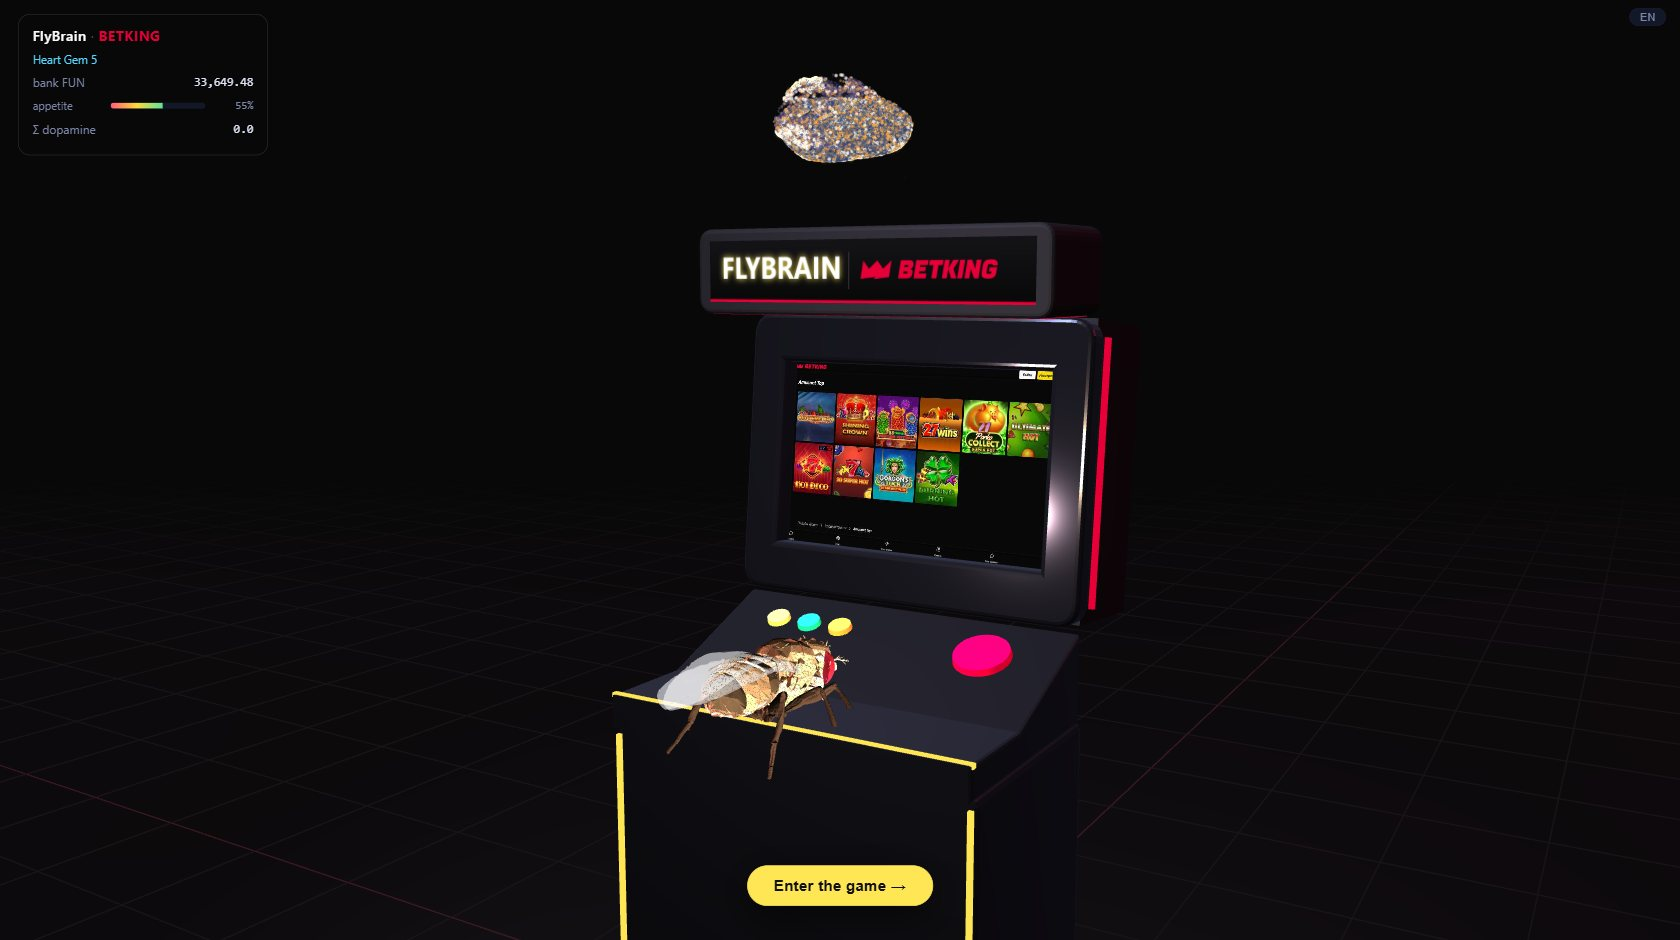
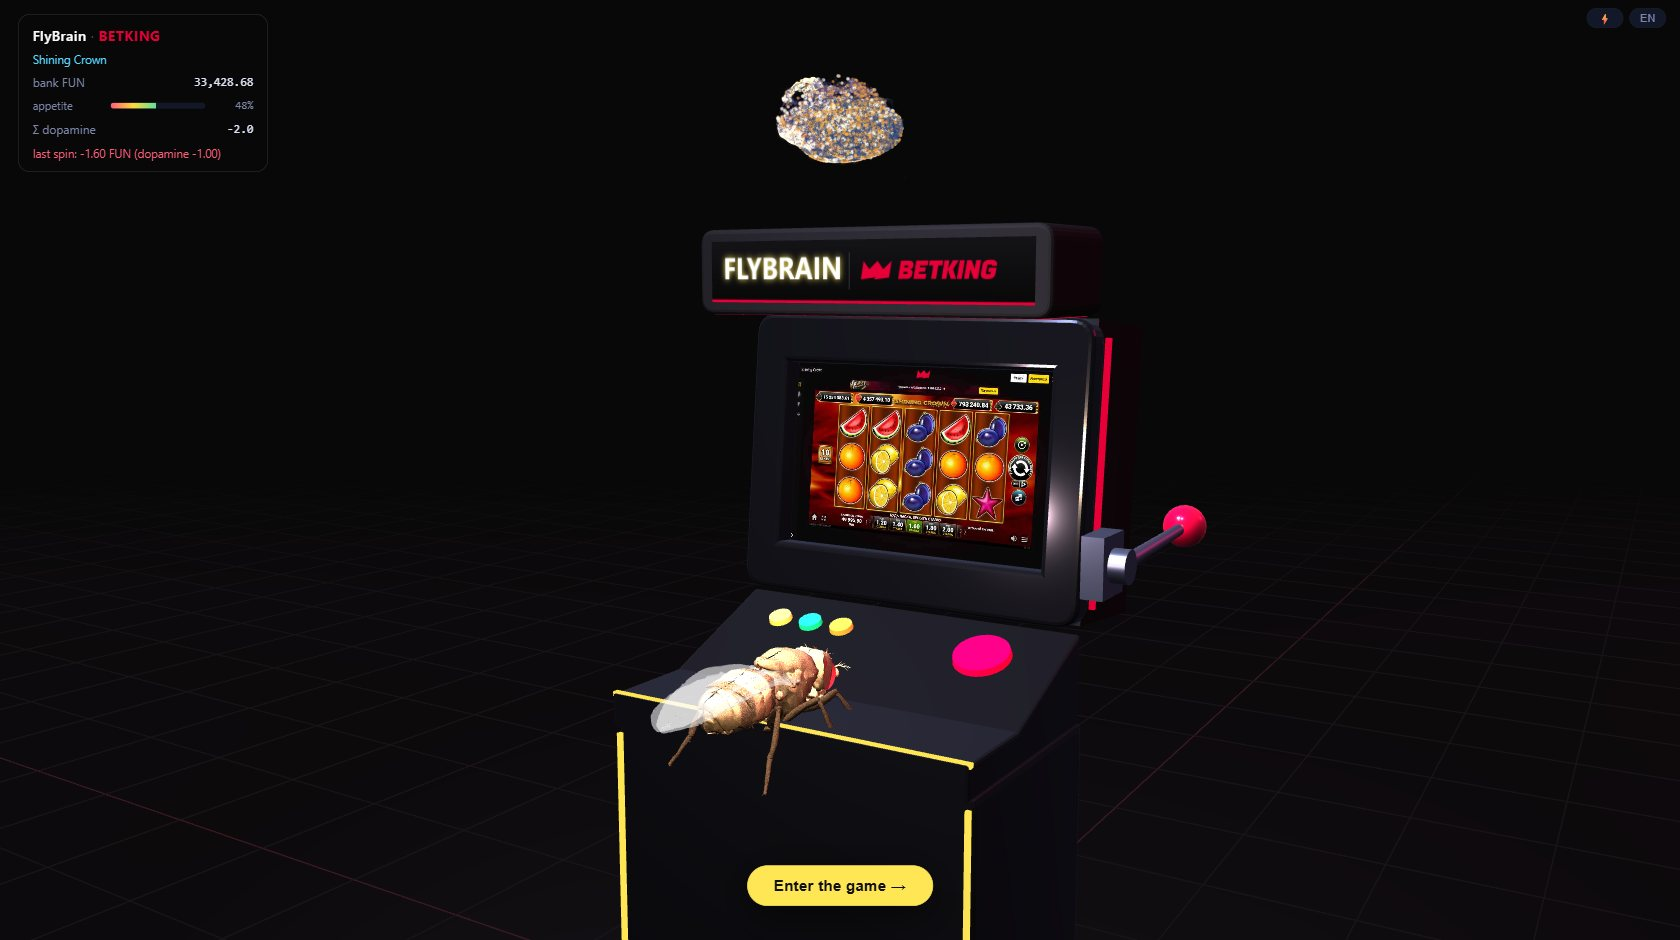
fly skin: shell fur removed (it read as slices with see-through seams) - fuzz is shaded (velvet rim + hair speckle), vertices welded and normals smoothed so the low-poly mesh is one skin, body double-sided so segment gaps never show the background; arcade: the fly perches level with all six legs dow

diff --git a/viz/index.html b/viz/index.html
@@ -637,40 +637,46 @@ const envMap = (() => {
 // its rear half (tergites), deep red compound eyes, dark legs. Matte, slightly velvety - no bee yellow,
 // no wasp gloss. Patterns are procedural (the model has no UVs): stripes by position, fur as shells.
 const MAT = {
-  thorax: new THREE.MeshPhysicalMaterial({ color: 0xa8845c, roughness: 0.82, metalness: 0.0, clearcoat: 0.06, clearcoatRoughness: 0.8, sheen: new THREE.Color(0x2a1d12), envMap, envMapIntensity: 0.25 }),
-  body:   new THREE.MeshPhysicalMaterial({ color: 0xc8a473, roughness: 0.8, metalness: 0.0, clearcoat: 0.08, clearcoatRoughness: 0.7, sheen: new THREE.Color(0x2e2115), envMap, envMapIntensity: 0.25 }),
+  // DoubleSide: the model's body plates have small gaps between segments; without back faces they showed the background through the fly
+  thorax: new THREE.MeshPhysicalMaterial({ color: 0x8f6c46, roughness: 0.82, metalness: 0.0, clearcoat: 0.06, clearcoatRoughness: 0.8, sheen: new THREE.Color(0x2a1d12), envMap, envMapIntensity: 0.25, side: THREE.DoubleSide }),
+  body:   new THREE.MeshPhysicalMaterial({ color: 0xb08c5e, roughness: 0.8, metalness: 0.0, clearcoat: 0.08, clearcoatRoughness: 0.7, sheen: new THREE.Color(0x2e2115), envMap, envMapIntensity: 0.25, side: THREE.DoubleSide }),
   eyes:   new THREE.MeshPhysicalMaterial({ color: 0xa8161f, emissive: 0x2a0406, roughness: 0.35, metalness: 0.0, clearcoat: 0.9, clearcoatRoughness: 0.25, envMap, envMapIntensity: 0.8 }),
   wing:   new THREE.MeshPhysicalMaterial({ color: 0xe6f4ff, transparent: true, opacity: 0.34, roughness: 0.1, metalness: 0.1, side: THREE.DoubleSide, depthWrite: false, envMap, envMapIntensity: 1.3 }),
   wingGhost: new THREE.MeshBasicMaterial({ color: 0xdfeeff, transparent: true, opacity: 0.09, side: THREE.DoubleSide, depthWrite: false }),
-  legs:   new THREE.MeshStandardMaterial({ color: 0x2f2318, roughness: 0.9, metalness: 0.0 }),
+  legs:   new THREE.MeshStandardMaterial({ color: 0x2f2318, roughness: 0.9, metalness: 0.0, side: THREE.DoubleSide }),
 };
 // stripes: dark bands along the body axis behind z0 (the abdomen), thin faint ones on the thorax
-function stripe(mat, z0, freq, dark, spread) {
+function stripe(mat, z0, freq, dark, spread, hairFreq, fuzz = 0xd8bd95) {
+  // plus the fuzz, shaded rather than built: a velvet rim (fuzz catches light at the silhouette) and a
+  // fine per-cell speckle (individual hairs). Shell fur - stacked copies of the mesh - showed as slices
+  // with see-through seams on this low-poly model.
   mat.onBeforeCompile = sh => {
     sh.uniforms.uZ0 = { value: z0 }; sh.uniforms.uFreq = { value: freq }; sh.uniforms.uDark = { value: dark }; sh.uniforms.uSpread = { value: spread };
+    sh.uniforms.uHairFreq = { value: hairFreq }; sh.uniforms.uFuzz = { value: new THREE.Color(fuzz) };
     sh.vertexShader = sh.vertexShader.replace('#include <common>', '#include <common>\nvarying vec3 vObjPos;').replace('#include <begin_vertex>', '#include <begin_vertex>\nvObjPos = position;');
-    sh.fragmentShader = sh.fragmentShader.replace('#include <common>', '#include <common>\nvarying vec3 vObjPos; uniform float uZ0, uFreq, uDark, uSpread;')
-      .replace('#include <color_fragment>', '#include <color_fragment>\n{ float rear = smoothstep(0.0, uSpread, uZ0 - vObjPos.z); float band = smoothstep(0.1, 0.6, sin((vObjPos.z - uZ0) * uFreq)); float side = 1.0 - 0.35 * smoothstep(0.2, 0.9, abs(normalize(vObjPos - vec3(0.0, vObjPos.y, vObjPos.z)).x)); diffuseColor.rgb *= mix(1.0, uDark, rear * band); diffuseColor.rgb *= 0.9 + 0.1 * side; }');
+    sh.fragmentShader = sh.fragmentShader.replace('#include <common>', '#include <common>\nvarying vec3 vObjPos; uniform float uZ0, uFreq, uDark, uSpread, uHairFreq; uniform vec3 uFuzz;')
+      .replace('#include <color_fragment>', '#include <color_fragment>\n{ float rear = smoothstep(0.0, uSpread, uZ0 - vObjPos.z); float band = smoothstep(0.1, 0.6, sin((vObjPos.z - uZ0) * uFreq));'
+        + ' float side = 1.0 - 0.35 * smoothstep(0.2, 0.9, abs(normalize(vObjPos - vec3(0.0, vObjPos.y, vObjPos.z)).x)); diffuseColor.rgb *= mix(1.0, uDark, rear * band); diffuseColor.rgb *= 0.9 + 0.1 * side;'
+        + ' float h = fract(sin(dot(floor(vObjPos * uHairFreq), vec3(127.1, 311.7, 74.7))) * 43758.5453);'
+        + ' float fr = pow(1.0 - max(0.0, dot(normalize(vNormal), normalize(vViewPosition))), 2.5);'
+        + ' diffuseColor.rgb *= 0.9 + 0.2 * h; diffuseColor.rgb = mix(diffuseColor.rgb, uFuzz, fr * (0.16 + 0.22 * h)); }');
   };
   mat.needsUpdate = true;
 }
-// fur: shells of the same geometry pushed out along the normals, each keeping a random subset of cells
-function addFur(mesh, length, shells, color, density) {
-  for (let k = 1; k <= shells; k++) {
-    const f = k / shells;
-    const m = new THREE.ShaderMaterial({ transparent: true, depthWrite: false,
-      uniforms: { uOff: { value: f * length }, uF: { value: f }, uColor: { value: new THREE.Color(color) }, uDensity: { value: density } },
-      vertexShader: 'uniform float uOff; varying vec3 vN; varying vec3 vP; void main() { vN = normalize(normalMatrix * normal); vP = position; gl_Position = projectionMatrix * modelViewMatrix * vec4(position + normal * uOff, 1.0); }',
-      fragmentShader: 'uniform float uF, uDensity; uniform vec3 uColor; varying vec3 vN; varying vec3 vP;\n' +
-        'float hash(vec3 p) { return fract(sin(dot(p, vec3(127.1, 311.7, 74.7))) * 43758.5453); }\n' +
-        'void main() { float h = hash(floor(vP * uDensity)); float keep = step(0.84 + 0.14 * uF, h); if (keep < 0.5) discard; float a = (1.0 - uF * 0.7) * 0.42;\n' +
-        '  float l = 0.5 + 0.5 * max(0.0, dot(normalize(vN), normalize(vec3(-0.4, 0.8, 0.6)))); gl_FragColor = vec4(uColor * l * (0.55 + 0.45 * uF), a); }' });
-    const sm = new THREE.Mesh(mesh.geometry, m); sm.renderOrder = 3 + k; mesh.add(sm); furMeshes.push(sm); if (lite) sm.visible = false;
+// the glb carries flat (per-face) normals: lighting came out as a patchwork of facets with dark seams.
+// Weld the vertices by position and recompute smooth normals - the same low-poly mesh reads as one skin.
+function smoothGeometry(g) {
+  const pos = g.attributes.position, n = pos.count, key = new Map(), index = new Uint32Array(n), out = [];
+  for (let i = 0; i < n; i++) {
+    const k = Math.round(pos.getX(i) * 1e4) + ',' + Math.round(pos.getY(i) * 1e4) + ',' + Math.round(pos.getZ(i) * 1e4);
+    let j = key.get(k); if (j === undefined) { j = out.length / 3; key.set(k, j); out.push(pos.getX(i), pos.getY(i), pos.getZ(i)); } index[i] = j;
   }
+  const idx = g.index ? Array.from(g.index.array, i => index[i]) : Array.from(index);
+  const ng = new THREE.BufferGeometry(); ng.setAttribute('position', new THREE.Float32BufferAttribute(out, 3)); ng.setIndex(idx); ng.computeVertexNormals(); return ng;
 }
 new THREE.GLTFLoader().load('/assets/drosophila.glb', gltf => {
   const model = gltf.scene; let legsMesh = null, bodyMesh = null;
-  model.traverse(o => { if (!o.isMesh) return; const n = o.name.toLowerCase();
+  model.traverse(o => { if (!o.isMesh) return; const n = o.name.toLowerCase(); if (!n.includes('wing')) o.geometry = smoothGeometry(o.geometry);
     o.material = n.includes('wing') ? MAT.wing : n.includes('eye') ? MAT.eyes : n.includes('thorax') ? MAT.thorax : n.includes('leg') ? MAT.legs : MAT.body;
     if (n.includes('wing')) fly.wings.push({ mesh: o, s: n.startsWith('l') ? -1 : 1 }); if (n.includes('leg')) legsMesh = o; if (n === 'body') bodyMesh = o; });
   model.updateMatrixWorld(true);
@@ -678,10 +684,10 @@ new THREE.GLTFLoader().load('/assets/drosophila.glb', gltf => {
   if (thorax) new THREE.Box3().setFromObject(thorax).getCenter(tc);
   const bbAll = new THREE.Box3().setFromObject(model), L = bbAll.max.z - bbAll.min.z;
   // abdomen bands behind the thorax, faint thorax stripes, fur on both
-  stripe(MAT.body, tc.z - L * 0.06, 2 * Math.PI * 4.5 / Math.max(0.01, tc.z - bbAll.min.z), 0.38, L * 0.12);
-  stripe(MAT.thorax, tc.z + L * 0.4, 2 * Math.PI * 3.0 / (L * 0.3), 0.72, L * 0.6);
-  if (thorax) addFur(thorax, L * 0.024, 4, 0xd9bc92, 200 / L);
-  if (bodyMesh) addFur(bodyMesh, L * 0.012, 3, 0xcfae82, 260 / L);
+  stripe(MAT.body, tc.z - L * 0.06, 2 * Math.PI * 4.5 / Math.max(0.01, tc.z - bbAll.min.z), 0.38, L * 0.12, 260 / L);
+  stripe(MAT.thorax, tc.z + L * 0.4, 2 * Math.PI * 3.0 / (L * 0.3), 0.72, L * 0.6, 220 / L);
+  stripe(MAT.legs, tc.z, 1.0, 1.0, 0.0, 400 / L, 0x6a5238);
+
   fly.wings = fly.wings.map(({ mesh, s }) => {
     const bb = new THREE.Box3().setFromObject(mesh);
     const hinge = new THREE.Vector3(s < 0 ? bb.max.x : bb.min.x, bb.max.y, bb.max.z); hinge.x = tc.x + s * 0.12; hinge.y = Math.min(hinge.y, tc.y + 0.25);
@@ -843,6 +849,14 @@ function marqueeTexture() {   // "FLYBRAIN" and the BETKING logo (crown + wordma
   const keyA = new THREE.DirectionalLight(0xfff0dd, 0.7); keyA.position.set(-2, 4, 3); arcade.add(keyA);
   const rim = new THREE.DirectionalLight(BK.red, 0.4); rim.position.set(3, 2, -3); arcade.add(rim);
   const warm = new THREE.PointLight(0xffd6a8, 1.6, 3.5, 2); warm.position.set(0.7, 1.7, 1.3); arcade.add(warm);   // a warm lamp on the fly
+  // the one-armed bandit's arm: bracket on the right side of the head, shaft + red ball; pulled on every decision
+  const lever = new THREE.Group(); lever.position.set(0.53, headY - 0.22, -0.3); cabinet.add(lever);
+  const bracket = new THREE.Mesh(new THREE.BoxGeometry(0.06, 0.16, 0.14), steel); bracket.position.set(0.03, 0, 0); lever.add(bracket);
+  const pivot = new THREE.Group(); pivot.position.set(0.075, 0, 0); lever.add(pivot);
+  const shaft = new THREE.Mesh(new THREE.CylinderGeometry(0.016, 0.02, 0.5, 16), steel); shaft.position.set(0, 0.25, 0); pivot.add(shaft);
+  const knob = new THREE.Mesh(new THREE.SphereGeometry(0.06, 24, 16), new THREE.MeshPhysicalMaterial({ color: BK.red, roughness: 0.25, clearcoat: 1, clearcoatRoughness: 0.1, envMap, envMapIntensity: 0.8 })); knob.position.set(0, 0.52, 0); pivot.add(knob);
+  const hub = new THREE.Mesh(new THREE.CylinderGeometry(0.045, 0.045, 0.06, 20), steel); hub.rotation.z = Math.PI / 2; pivot.add(hub);
+  cabinet.userData.lever = pivot;
   cabinet.userData.perch = { y: pedTop + ledgeH, z: 0.02 + deckDepth / 2 - 0.13, screenY: headY };
 }
 const brainLight = new THREE.PointLight(0x9fb4ff, 0.8, 3, 2); brainLight.position.set(0, 2.6, 0.6);
@@ -1126,8 +1140,8 @@ function animate(now) {
     tmp.set(fs.pos.x + 1, fs.pos.y + 0.05, fs.pos.z + 0.55); qTarget.copy(flyRoot.quaternion); flyRoot.lookAt(tmp); flyRoot.rotateX(-0.15); qA.copy(flyRoot.quaternion); flyRoot.quaternion.copy(qTarget).slerp(qA, Math.min(1, dt * 5));
   } else if (fs.mode === 'perch') {   // arcade: sits on the cabinet's ledge, facing the screen, watching the reels
     grounded = true;
-    const pr = cabinet.userData.perch; fs.pos.set(-0.04, pr.y + 0.105, pr.z + 0.06); flyRoot.position.copy(fs.pos); flyRoot.position.y += Math.sin(t0 * 1.7) * 0.004;
-    tmp.set(fs.pos.x - 0.02, fs.pos.y + 0.28 + Math.sin(t0 * 0.6) * 0.05, fs.pos.z - 0.8); qTarget.copy(flyRoot.quaternion); flyRoot.lookAt(tmp); flyRoot.rotateX(0.55 + Math.sin(t0 * 0.9) * 0.05); flyRoot.rotateY(Math.sin(t0 * 0.35) * 0.12);
+    const pr = cabinet.userData.perch; fs.pos.set(-0.04, pr.y + 0.085, pr.z + 0.06); flyRoot.position.copy(fs.pos); flyRoot.position.y += Math.sin(t0 * 1.7) * 0.004;
+    tmp.set(fs.pos.x - 0.02, fs.pos.y + 0.02 + Math.sin(t0 * 0.6) * 0.02, fs.pos.z - 0.8); qTarget.copy(flyRoot.quaternion); flyRoot.lookAt(tmp); flyRoot.rotateX(0.12 + Math.sin(t0 * 0.9) * 0.03); flyRoot.rotateY(Math.sin(t0 * 0.35) * 0.12);
     qA.copy(flyRoot.quaternion); flyRoot.quaternion.copy(qTarget).slerp(qA, Math.min(1, dt * 4));
     if (flyCtl.broke) smoking = true;
   } else if (fs.mode === 'landed') {
@@ -1163,6 +1177,8 @@ function animate(now) {
     updateVideoTexture();
     cabinet.userData.glow.intensity = 1.1 + 0.3 * Math.sin(t0 * 2.3) + 0.2 * Math.sin(t0 * 5.1);
     cabinet.userData.spin.material.emissiveIntensity = 0.3 + 0.9 * Math.max(0, 1 - (now - lastDecisionAt) / 700);
+    { const u = clamp((now - lastDecisionAt) / 900, 0, 1);              // pull (fast) then spring back (slow)
+      const pull = u < 0.25 ? u / 0.25 : 1 - (u - 0.25) / 0.75; cabinet.userData.lever.rotation.x = -1.9 * Math.sin(pull * Math.PI / 2); }
     if (points) { brainGroup.rotation.set(0.1, t0 * 0.15, 0); }
   }
   if (points) {
